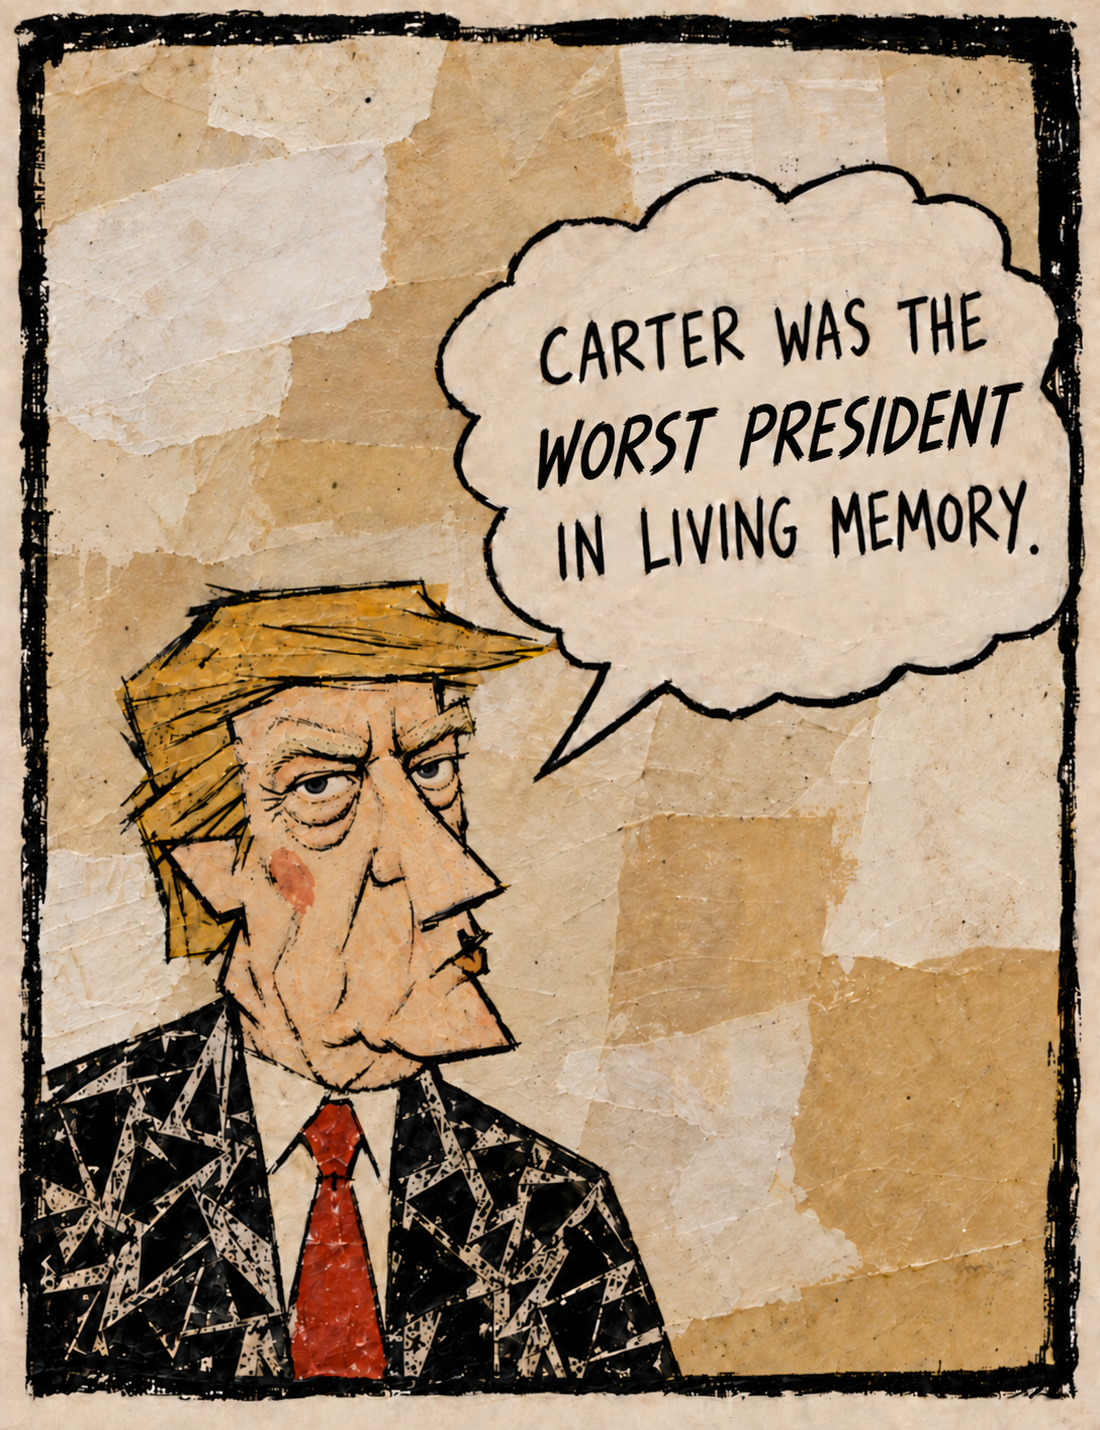
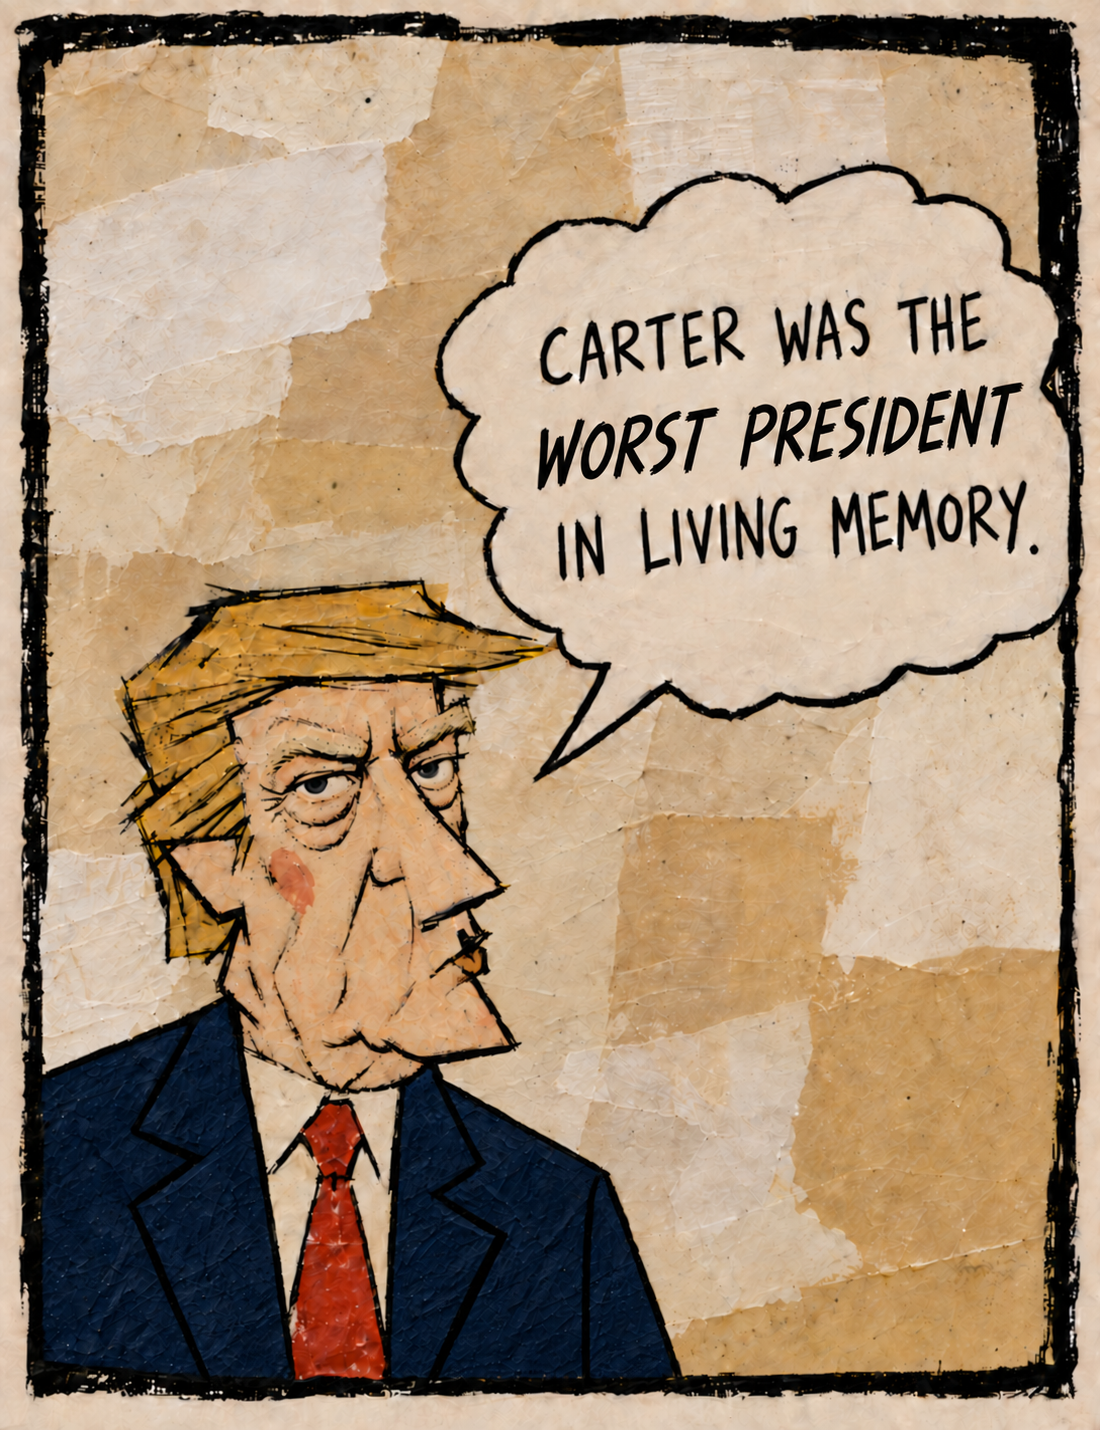
Replace Living Memory artwork

diff --git a/comics/living-memory/index.html b/comics/living-memory/index.html
@@ -10,7 +10,7 @@
     <meta property="og:site_name" content="Stealing Art Jobs" />
     <meta property="og:title" content="Living Memory — Stealing Art Jobs" />
     <meta property="og:description" content="Donald Trump calls Jimmy Carter the worst president in living memory." />
-    <meta property="og:image" content="https://stealingartjobs.com/comics/living-memory.png?v=1" />
+    <meta property="og:image" content="https://stealingartjobs.com/comics/living-memory.png?v=2" />
     <meta property="og:url" content="https://stealingartjobs.com/comics/living-memory/" />
     <link rel="canonical" href="https://stealingartjobs.com/comics/living-memory/" />
     <title>Living Memory — Stealing Art Jobs</title>
@@ -19,7 +19,7 @@
     <link href="https://fonts.googleapis.com/css2?family=DM+Mono:wght@400;500&family=Manrope:wght@500;600;700;800&display=swap" rel="stylesheet" />
     <link rel="stylesheet" href="/styles.css?v=21" />
     <script type="application/ld+json">{"@context":"https://schema.org","@type":"WebSite","name":"Stealing Art Jobs","url":"https://stealingartjobs.com/","description":"An independent webcomic about art, work, technology, and strange incentives."}</script>
-    <script type="application/ld+json">{"@context": "https://schema.org", "@type": "CreativeWork", "name": "Living Memory", "description": "Donald Trump calls Jimmy Carter the worst president in living memory.", "datePublished": "2026-10-04", "image": "https://stealingartjobs.com/comics/living-memory.png?v=1", "url": "https://stealingartjobs.com/comics/living-memory/", "isPartOf": {"@type": "WebSite", "name": "Stealing Art Jobs", "url": "https://stealingartjobs.com/"}}</script>
+    <script type="application/ld+json">{"@context": "https://schema.org", "@type": "CreativeWork", "name": "Living Memory", "description": "Donald Trump calls Jimmy Carter the worst president in living memory.", "datePublished": "2026-10-04", "image": "https://stealingartjobs.com/comics/living-memory.png?v=2", "url": "https://stealingartjobs.com/comics/living-memory/", "isPartOf": {"@type": "WebSite", "name": "Stealing Art Jobs", "url": "https://stealingartjobs.com/"}}</script>
   </head>
   <body>
     <header class="site-header">
@@ -76,7 +76,7 @@
 
         <figure class="comic-frame" id="comic-frame">
           <button class="comic-arrow comic-arrow-previous" id="comic-previous" type="button" aria-label="Previous comic"><span aria-hidden="true">&lt;</span></button>
-          <img id="comic-image" src="/comics/living-memory.png?v=1" alt="An elderly Donald Trump, drawn with angular features, says in a large speech balloon, ‘Carter was the worst president in living memory.’" />
+          <img id="comic-image" src="/comics/living-memory.png?v=2" alt="An elderly Donald Trump, drawn with angular features, says in a large speech balloon, ‘Carter was the worst president in living memory.’" />
           <button class="comic-arrow comic-arrow-next" id="comic-next" type="button" aria-label="Next comic" disabled><span aria-hidden="true">&gt;</span></button>
         </figure>
 

diff --git a/index.html b/index.html
@@ -10,7 +10,7 @@
     <meta property="og:site_name" content="Stealing Art Jobs" />
     <meta property="og:title" content="Stealing Art Jobs" />
     <meta property="og:description" content="An independent webcomic about art, work, technology, and strange incentives." />
-    <meta property="og:image" content="https://stealingartjobs.com/comics/living-memory.png?v=1" />
+    <meta property="og:image" content="https://stealingartjobs.com/comics/living-memory.png?v=2" />
     <meta property="og:url" content="https://stealingartjobs.com/" />
     <link rel="canonical" href="https://stealingartjobs.com/" />
     <title>Stealing Art Jobs — Independent Webcomic</title>
@@ -75,7 +75,7 @@
 
         <figure class="comic-frame" id="comic-frame">
           <button class="comic-arrow comic-arrow-previous" id="comic-previous" type="button" aria-label="Previous comic"><span aria-hidden="true">&lt;</span></button>
-          <img id="comic-image" src="/comics/living-memory.png?v=1" alt="An elderly Donald Trump, drawn with angular features, says in a large speech balloon, ‘Carter was the worst president in living memory.’" />
+          <img id="comic-image" src="/comics/living-memory.png?v=2" alt="An elderly Donald Trump, drawn with angular features, says in a large speech balloon, ‘Carter was the worst president in living memory.’" />
           <button class="comic-arrow comic-arrow-next" id="comic-next" type="button" aria-label="Next comic" disabled><span aria-hidden="true">&gt;</span></button>
         </figure>
 
